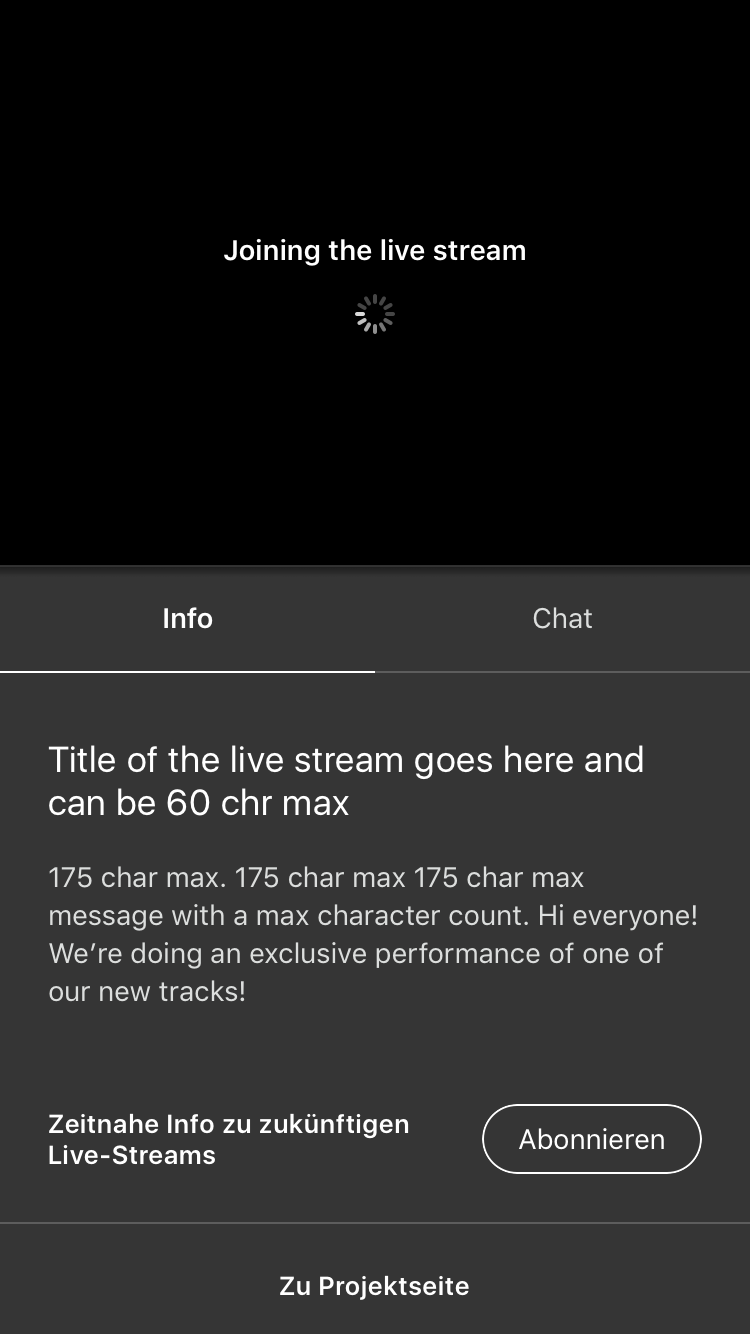
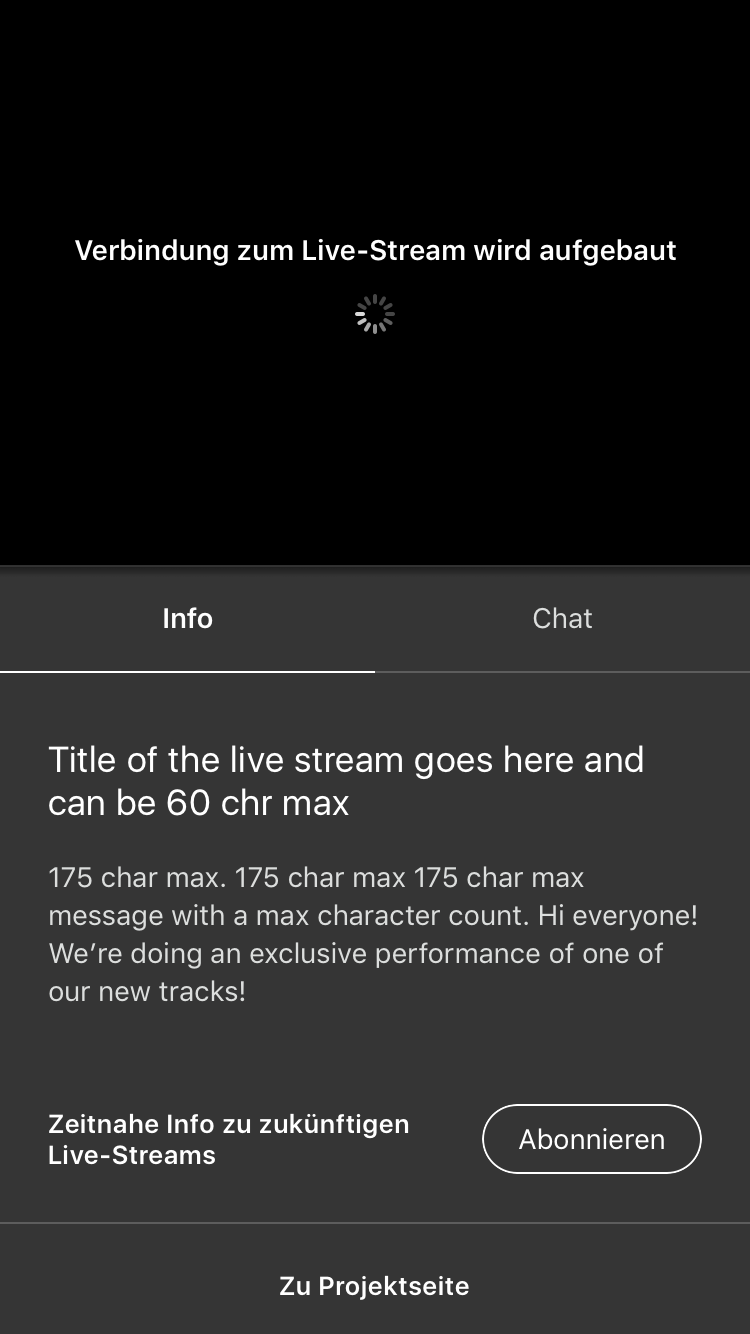
Update strings

Changed region(s): [[0.092, 0.1844, 0.8893, 0.2151]]

diff --git a/Kickstarter-iOS/Views/Controllers/LiveStreamCountdownViewController.swift b/Kickstarter-iOS/Views/Controllers/LiveStreamCountdownViewController.swift
@@ -132,13 +132,13 @@ public final class LiveStreamCountdownViewController: UIViewController {
       |> UILabel.lens.textAlignment .~ .center
 
     _ = self.daysSubtitleLabel
-      |> UILabel.lens.text %~ { _ in Strings.days() }
+      |> UILabel.lens.text %~ { _ in Strings.days_plural() }
 
     _ = self.hoursSubtitleLabel
-      |> UILabel.lens.text %~ { _ in Strings.hours() }
+      |> UILabel.lens.text %~ { _ in Strings.hours_plural() }
 
     _ = self.minutesSubtitleLabel
-      |> UILabel.lens.text %~ { _ in Strings.minutes() }
+      |> UILabel.lens.text %~ { _ in Strings.minutes_plural() }
 
     _ = self.secondsSubtitleLabel
       |> UILabel.lens.text %~ { _ in Strings.seconds() }

diff --git a/Library/ViewModels/LoginToutViewModel.swift b/Library/ViewModels/LoginToutViewModel.swift
@@ -241,8 +241,7 @@ private func statusString(_ forStatus: LoginIntent) -> String {
   case .backProject:
     return Strings.Please_log_in_or_sign_up_to_back_this_project()
   case .liveStreamChat:
-    return localizedString(key: "Please_log_in_or_sign_up_to_participate_in_this_live_stream_chat",
-                           defaultValue: "Please log in or sign up to participate in this live stream chat.")
+    return Strings.Please_log_in_or_sign_up_to_participate_in_this_live_stream_chat()
   case .liveStreamSubscribe:
     return Strings.Please_log_in_or_sign_up_to_subscribe_to_this_live_stream()
   case .messageCreator:

diff --git a/Library/ViewModels/LiveStreamContainerViewModel.swift b/Library/ViewModels/LiveStreamContainerViewModel.swift
@@ -407,7 +407,7 @@ LiveStreamContainerViewModelInputs, LiveStreamContainerViewModelOutputs {
       .map { refTag -> String in
         if refTag == .liveStreamCountdown { return Strings.The_live_stream_will_start_soon() }
 
-        return localizedString(key: "Joining_the_live_stream", defaultValue: "Joining the live stream")
+        return Strings.Joining_the_live_stream()
     }
 
     self.loaderText = Signal.merge(
